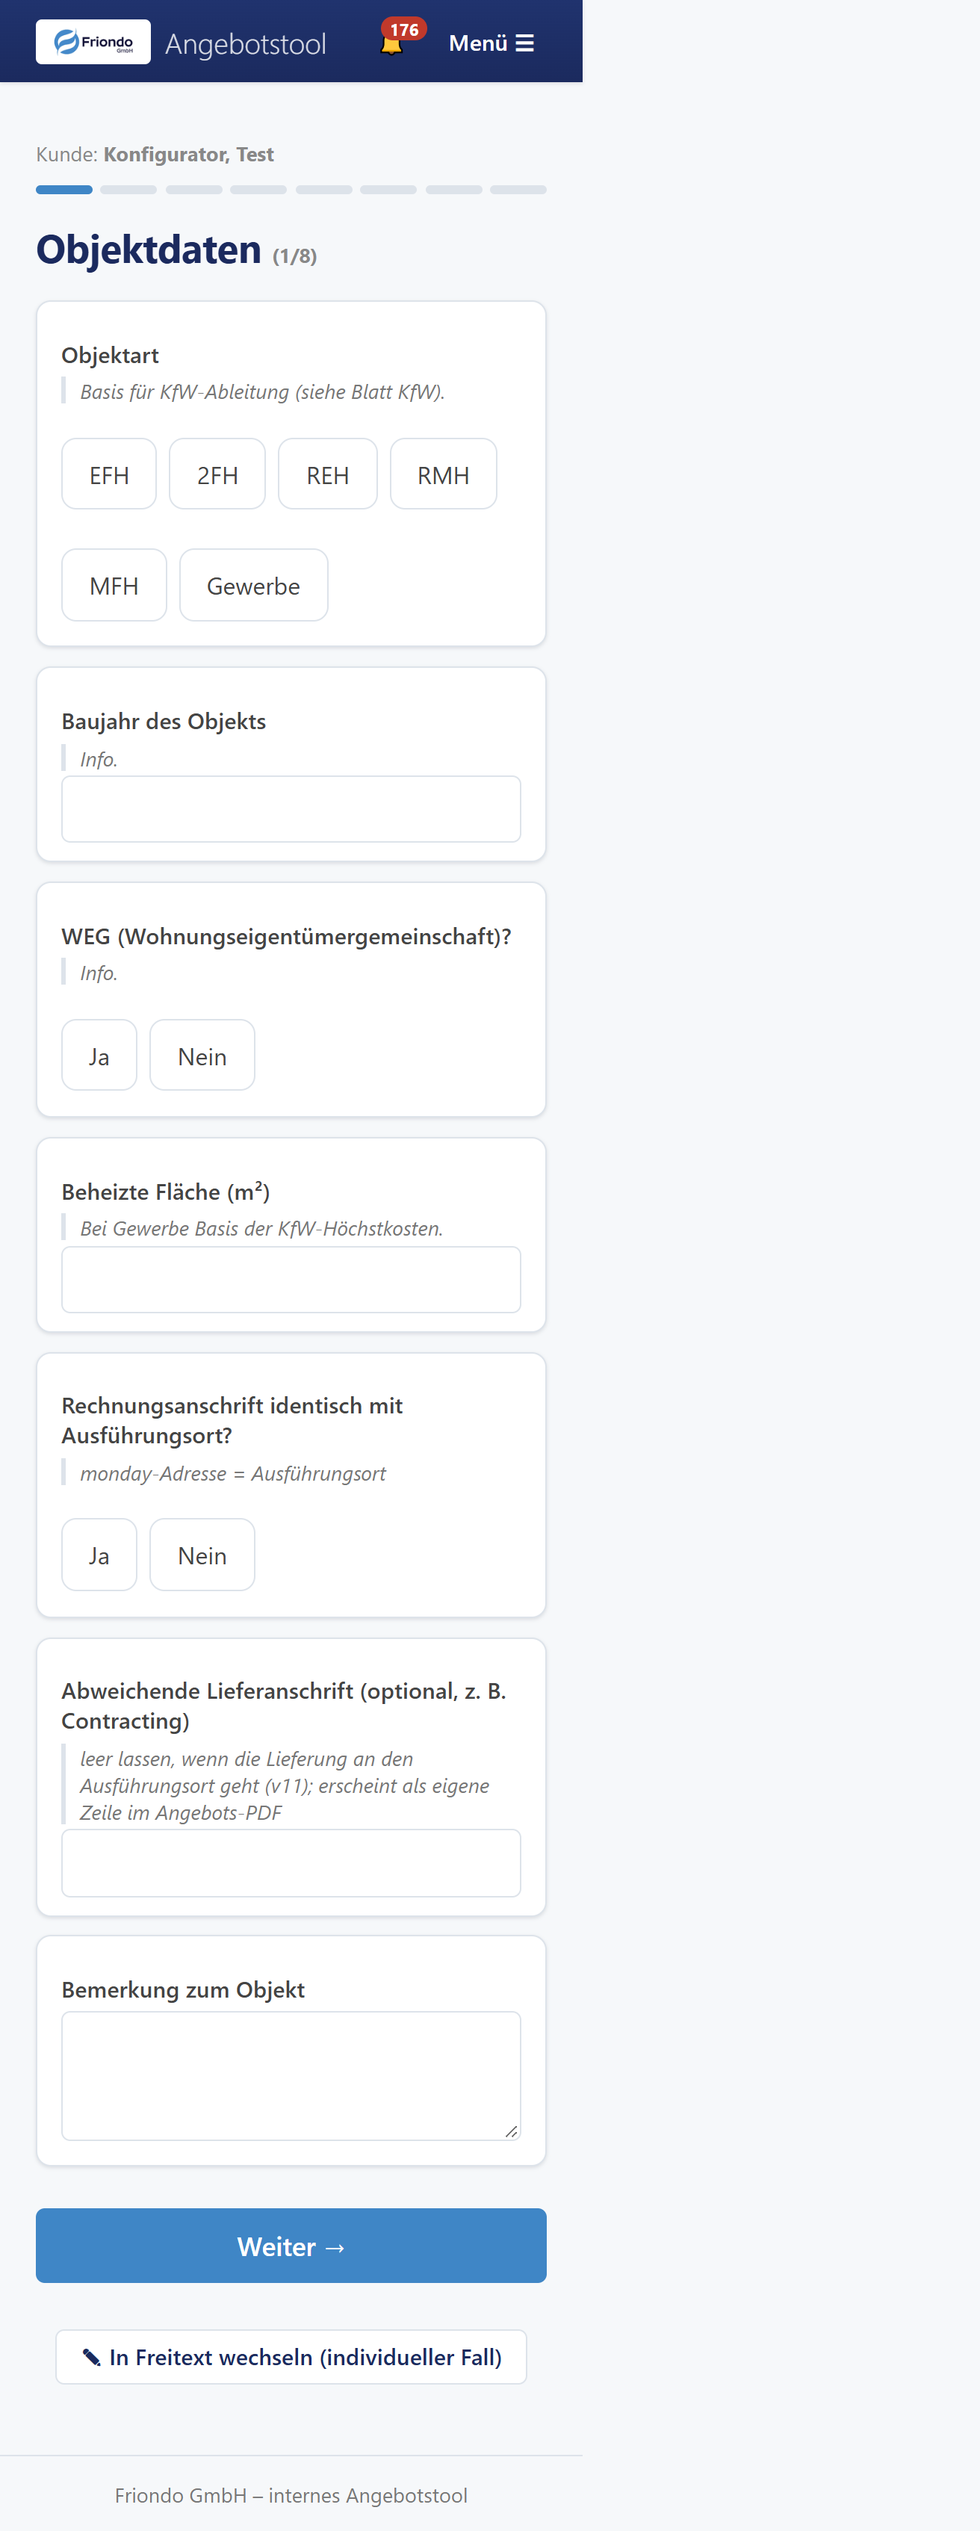
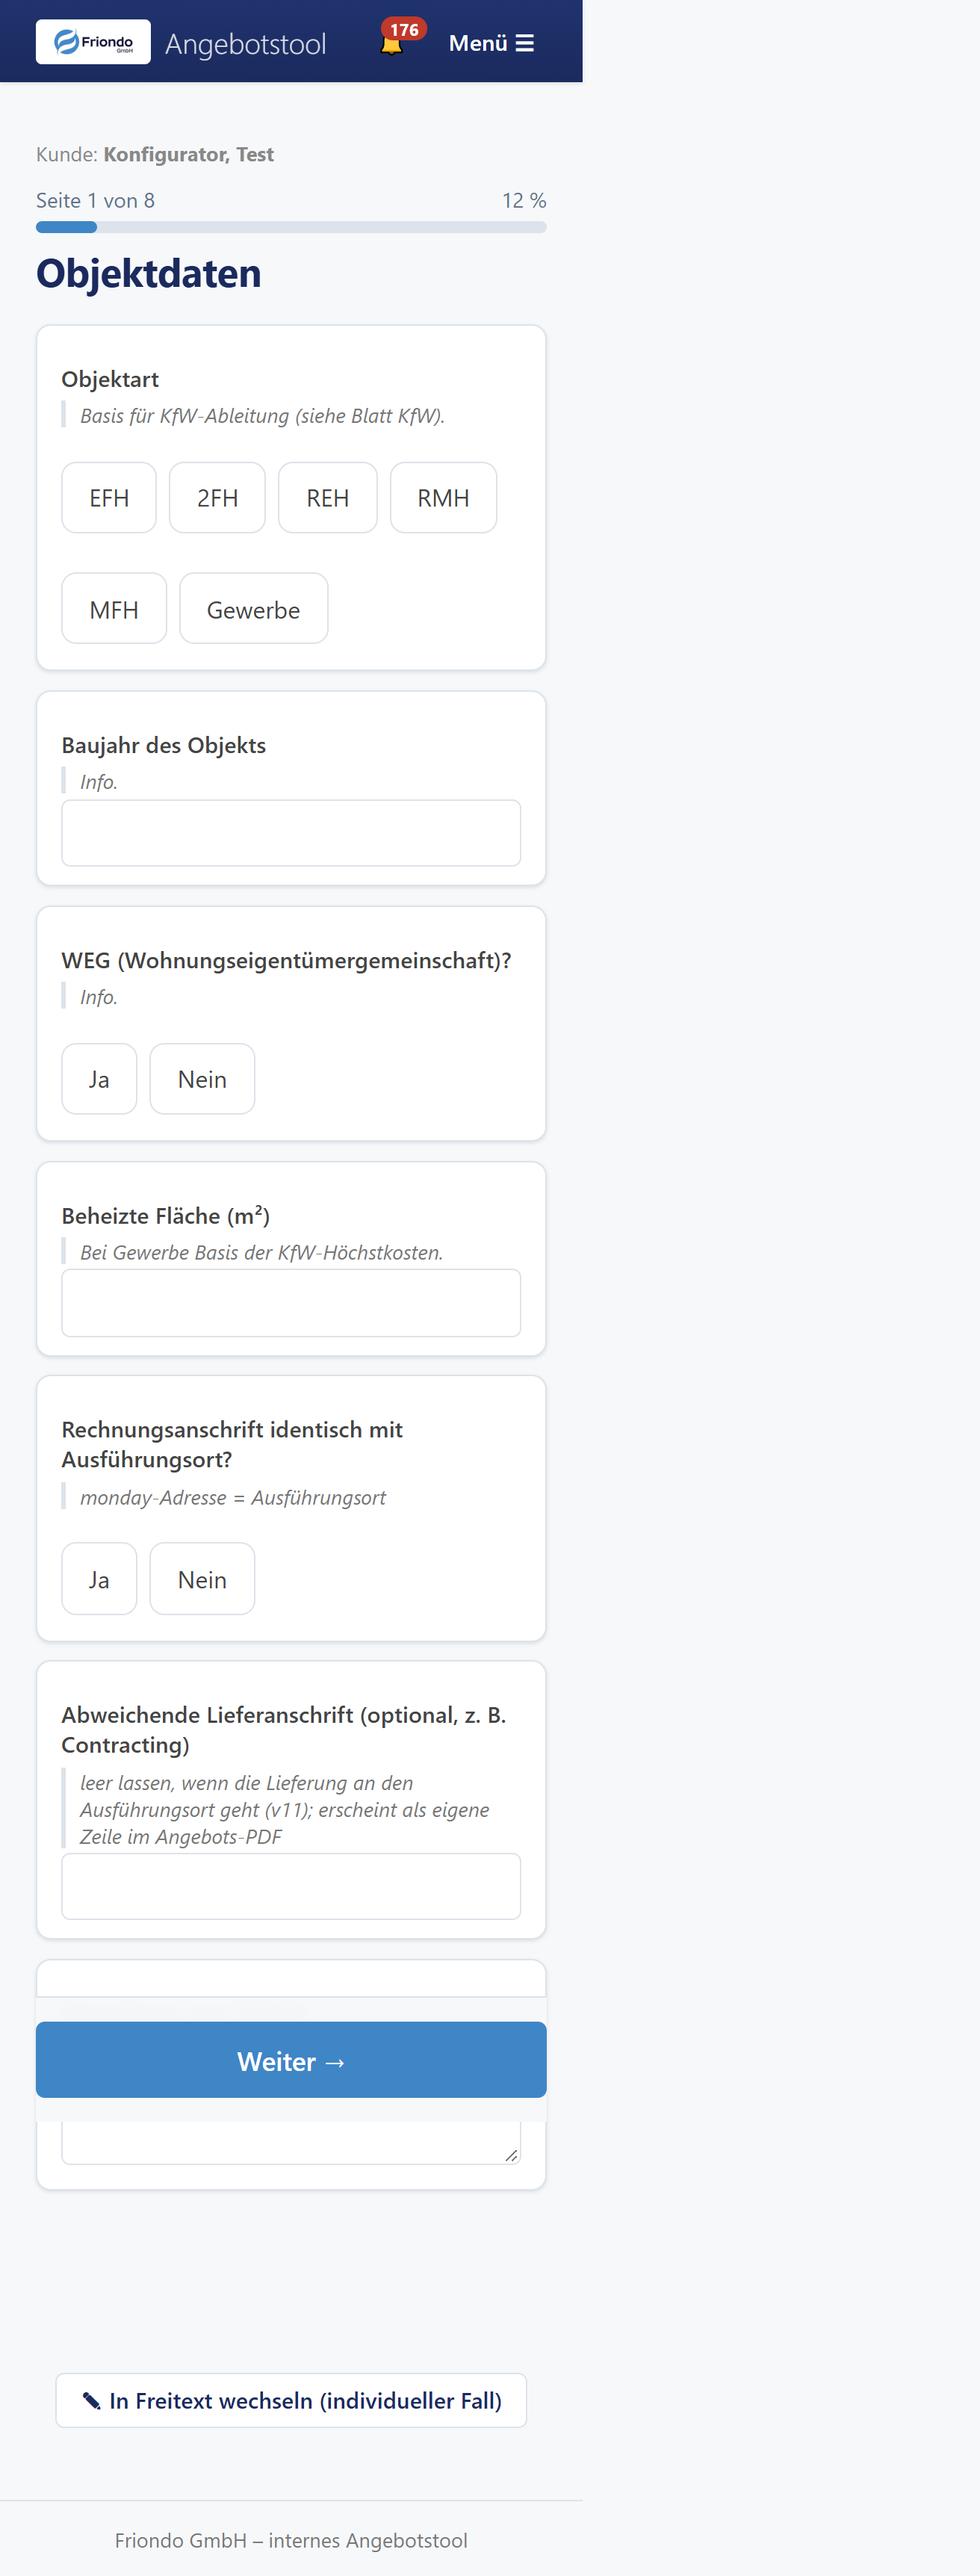
PLAN_V12 Phase 73: Mobile Erfassung
Fragebogen: Fortschritt als Seite x von y mit Prozentbalken,
Seitentitel gross, jede Frage als Karte mit grossen Touch-Zielen
(komplett tippbare Radio-/Checkbox-Flächen aus dem Bestand, jetzt im
Karten-Stil mit Fokusring), Weiter/Zurück als sticky Fussleiste (auch
auf der Prüfen-Seite); Zahlenfelder behalten inputmode decimal/
numeric, unter 640 px sind alle Eingaben mindestens 16 px gegen
Zoom-Springen. Einschätzungs-Ampel (S01) als drei grosse Buttons.
Sparten-Weiche und Freitext-Umschalter erben die neuen
Kachel-Karten. Meine Angebote: Status-Badges, Wiedervorlage-Symbol,
Leerzustand. PWA-Darstellung: lokales Manifest
(static/manifest.webmanifest), theme-color der Kopfzeile, Icon-Links
in base.html. Suite 117/117.

diff --git a/app/templates/erfassung/seite.html b/app/templates/erfassung/seite.html
@@ -6,13 +6,15 @@
 <div class="mobil-inhalt">
     <p class="dezent">Kunde: <strong>{{ kunde.anzeige_name }}</strong></p>
 
-    <div class="fortschritt">
-        {% for s in seiten %}
-            <span class="schritt {{ 'aktuell' if loop.index0 == nr else ('fertig' if loop.index0 < nr) }}"
-                  title="{{ s }}"></span>
-        {% endfor %}
+    {# v14 (Phase 73): Fortschritt als "Seite x von y" + Balken #}
+    <div class="erfassung-fortschritt">
+        <div class="fortschritt-text">
+            <span>Seite {{ nr + 1 }} von {{ seiten | length }}</span>
+            <span>{{ ((nr + 1) * 100 / (seiten | length)) | round | int }} %</span>
+        </div>
+        <div class="balken"><i style="width: {{ ((nr + 1) * 100 / (seiten | length)) | round | int }}%"></i></div>
     </div>
-    <h1>{{ seiten[nr] }} <span class="dezent">({{ nr + 1 }}/{{ seiten | length }})</span></h1>
+    <h1>{{ seiten[nr] }}</h1>
 
     <form method="post" action="/erfassung/{{ erfassung.id }}/seite/{{ nr }}" class="mobil-formular" id="seitenform">
         {% for frage in fragen %}
@@ -26,7 +28,8 @@
             {% if fehler.get(frage.id) %}<p class="feldfehler">{{ fehler[frage.id] }}</p>{% endif %}
 
             {% if frage.typ == 'Auswahl' %}
-                <div class="wahl-gruppe">
+                {# v14: Einschätzungs-Ampel (S01) als drei grosse Buttons #}
+                <div class="wahl-gruppe {{ 'einschaetzung' if frage.id == 'S01' }}">
                 {% for option in frage.antworten %}
                     <label class="wahl">
                         <input type="radio" name="f_{{ frage.id }}" value="{{ option }}"
@@ -76,7 +79,7 @@
         </div>
         {% endfor %}
 
-        <div class="mobil-aktionen">
+        <div class="mobil-aktionen sticky-fuss">
             {% if nr > 0 %}
                 <button class="knopf zweitrangig gross" type="submit" name="richtung" value="zurueck">← Zurück</button>
             {% endif %}

diff --git a/app/templates/angebote/meine.html b/app/templates/angebote/meine.html
@@ -1,4 +1,6 @@
 {% extends "base.html" %}
+{% from "_komponenten.html" import status_badge %}
+{% from "_symbole.html" import symbol %}
 
 {% block titel %}Meine Angebote – Friondo{% endblock %}
 
@@ -19,13 +21,13 @@
     {% for a in angebote %}
         <li>
             <div style="padding: 0.7rem 1rem 0.2rem">
-                <strong>{% if a.extern %}<span class="abzeichen">TAIFUN</span> {{ a.taifun_nummer or '– Nummer fehlt –' }}{% else %}{{ a.nummer }}{% endif %}</strong>
+                <strong>{% if a.extern %}<span class="abzeichen status-taifun">TAIFUN</span> {{ a.taifun_nummer or '– Nummer fehlt –' }}{% else %}{{ a.nummer }}{% endif %}</strong>
                 · {{ kunden[a.kunde_id].anzeige_name if a.kunde_id in kunden else '?' }}<br>
                 <span class="dezent">{{ a.datum.strftime('%d.%m.%Y') }} ·
-                    <span class="abzeichen">{{ a.status }}</span>
+                    {{ status_badge(a.status) }}
                     {% if a.verfolgung_ampel %}{{ {'heiss': '🔥', 'warm': '🌤', 'kalt': '❄'}[a.verfolgung_ampel] }}{% endif %}
                     {% if a.wiedervorlage_am %}
-                        <span class="{{ 'wv-faellig' if a.wiedervorlage_am <= heute else 'dezent' }}">↻ {{ a.wiedervorlage_am.strftime('%d.%m.%Y') }}</span>
+                        <span class="wv-datum {{ 'wv-faellig' if a.wiedervorlage_am <= heute }}">{{ symbol('wiedervorlage') }} {{ a.wiedervorlage_am.strftime('%d.%m.%Y') }}</span>
                     {% endif %}
                     · Endbetrag: <strong>{{ a.summen().endbetrag | euro }}</strong></span>
             </div>
@@ -41,7 +43,7 @@
     {% endfor %}
     </ul>
     {% else %}
-    <p class="dezent">Noch keine Angebote zu deinen Vorgängen.</p>
+    <div class="leer-zustand">Noch keine Angebote zu deinen Vorgängen.</div>
     {% endif %}
 </div>
 {% endblock %}

diff --git a/app/templates/base.html b/app/templates/base.html
@@ -5,6 +5,11 @@
     <meta name="viewport" content="width=device-width, initial-scale=1">
     <title>{% block titel %}Friondo Angebotstool{% endblock %}</title>
     <link rel="stylesheet" href="{{ url_for('static', path='style.css') }}?v={{ css_version }}">
+    {# v14 (Phase 73): PWA-Darstellung - Startansicht, Icon, Farbe #}
+    <meta name="theme-color" content="#1b2a5e">
+    <link rel="manifest" href="/static/manifest.webmanifest">
+    <link rel="icon" href="/static/logo.png">
+    <link rel="apple-touch-icon" href="/static/logo.png">
 </head>
 <body>
 {% set benutzer_angemeldet = request.state.benutzer if request.state is defined else None %}

diff --git a/app/templates/erfassung/pruefen.html b/app/templates/erfassung/pruefen.html
@@ -33,7 +33,7 @@
         </div>
     {% endfor %}
 
-    <div class="mobil-aktionen">
+    <div class="mobil-aktionen sticky-fuss">
         <a class="knopf zweitrangig gross" href="/erfassung/{{ erfassung.id }}/seite/{{ seiten | length - 1 }}">← Zurück</a>
         {% if not offen and erfassung.status == 'Entwurf' %}
         <form method="post" action="/erfassung/{{ erfassung.id }}/absenden">

diff --git a/PLAN_V12.md b/PLAN_V12.md
@@ -93,15 +93,15 @@ HARTE LEITPLANKEN für dieses Update:
       Farben je Sparte/Kanal
 
 ## Phase 73 – Mobile Erfassung (Außendienst)
-- [ ] Fragebogen: Fortschrittsanzeige („Seite 3 von 8" + Balken),
+- [x] Fragebogen: Fortschrittsanzeige („Seite 3 von 8" + Balken),
       Seitentitel groß, eine Frage-Karte pro Frage, große Touch-Ziele
       (Radio-/Checkbox-Flächen komplett tippbar), Zahlenfelder mit
       passender Handy-Tastatur, Weiter/Zurück als sticky Fußleiste
-- [ ] Sparten-Weiche und Freitext-Umschalter als große, klare Karten
-- [ ] Einschätzungs-Seite: Ampelwahl als drei große Buttons
-- [ ] AD-Listen (Leads VOT, Meine Angebote/Vorgänge): Karten-Layout
+- [x] Sparten-Weiche und Freitext-Umschalter als große, klare Karten
+- [x] Einschätzungs-Seite: Ampelwahl als drei große Buttons
+- [x] AD-Listen (Leads VOT, Meine Angebote/Vorgänge): Karten-Layout
       fürs Handy, Badges/Chips wie am Desktop, Wiedervorlagen-Anzeige
-- [ ] PWA-Darstellung prüfen (Icon, Startansicht, kein Zoom-Springen)
+- [x] PWA-Darstellung prüfen (Icon, Startansicht, kein Zoom-Springen)
 
 ## Phase 74 – Feinschliff & Abnahme
 - [ ] Konsistenz-Rundgang: jede Seite gegen docs/design-system.md
